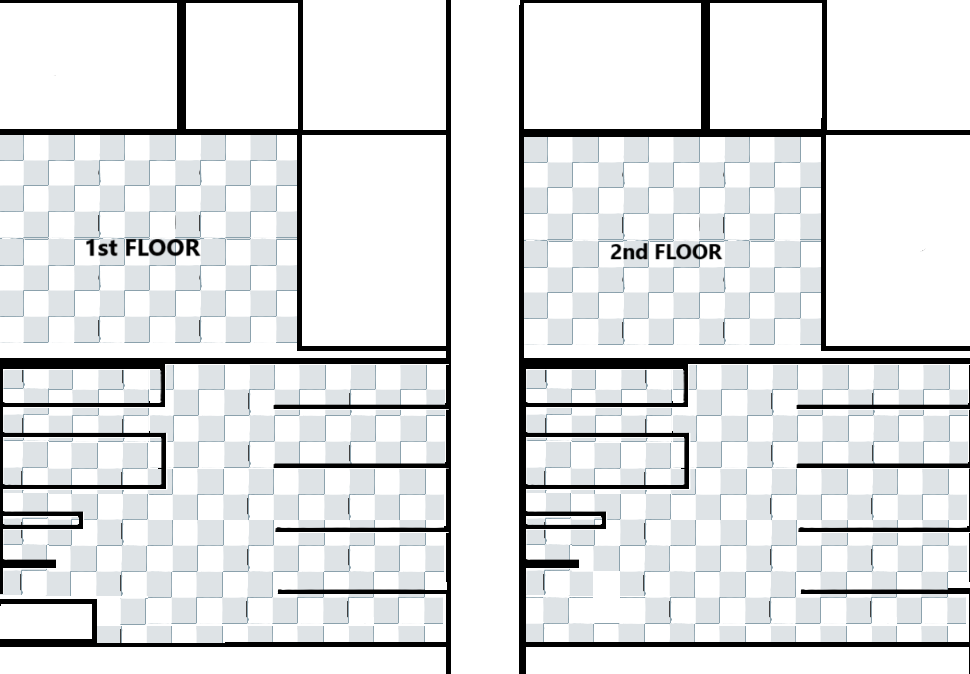
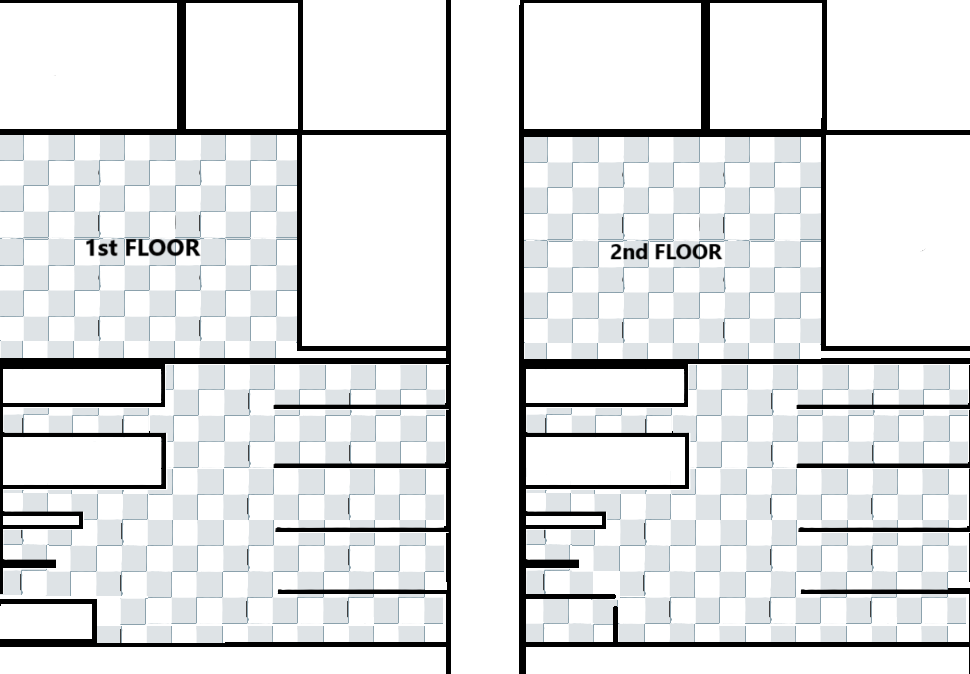
`Updated devicesADMIN.html and devicesUSER.html with various changes to layout and functionality`

diff --git a/public/devicesADMIN.html b/public/devicesADMIN.html
@@ -48,6 +48,7 @@
       padding: 20px;
       position: relative;
       right: 10%;
+      border:5px solid #ff4800;
       background-image: url('./1stFloor.png'); /* Background image */
       background-size: cover; /* Ensure the image covers the entire container */
       background-position: center; /* Center the image */
@@ -230,11 +231,11 @@
 
     .analytics-container {
       display: flex;
-      gap: 20px;
+      gap: 10px;
       margin: 20px 0;
       position: absolute;
       top: 20%; 
-      right: 15px;
+      right: 7px;
     }
 
     .analytics-box {
@@ -369,7 +370,7 @@
 
     <div id="devicesContent" class="content-section device-container" style="display: none;">
       <button id="closeDevicesContent" class="close-btn-devices">✖</button>
-      <input type="text" id="searchBar" placeholder="Search for devices...">
+      <!--<input type="text" id="searchBar" placeholder="Search for devices..."> -->
       <div id="deviceList" class="device-list"></div>
     </div>
 
@@ -426,12 +427,12 @@
         const downloadPdfButton = document.getElementById('downloadPdfButton');
 
         const devicePositions = {
-          'VENUS': { top: '48px', left: '695px', width: '103px', height: '171px'},
-          'MARS': { top: '-48px', left: '434px', width: '132px', height: '78px' },
-          'JUPITER': { top: '-48px', left: '-20px', width: '132px', height: '78px' },
-          'SKYLAB': { top: '48px', left: '242px', width: '102px', height: '171px' },
-          'PLUTO': { top: '-48px', left: '595px', width: '74px', height: '78px'  },
-          'DC Cabin': { top: '450px', left: '-20px', width: '74px', height: '24px'  },
+          'VENUS': { top: '69px', left: '695px', width: '103px', height: '172px'},
+          'MARS': { top: '-25px', left: '434px', width: '132px', height: '78px' },
+          'JUPITER': { top: '-25px', left: '-20px', width: '132px', height: '78px' },
+          'SKYLAB': { top: '69px', left: '242px', width: '102px', height: '172px' },
+          'PLUTO': { top: '-25px', left: '595px', width: '74px', height: '78px'  },
+          'DC Cabin': { top: '475px', left: '-20px', width: '74px', height: '24px'  },
         };
 
         const logoutButton = document.getElementById('logoutButton');
@@ -500,18 +501,18 @@
         });
 
         // Filter devices by search query
-        document.getElementById('searchBar').addEventListener('input', function() {
-          const query = this.value.toLowerCase();
-          const filteredDevices = devices.filter(device => device.toLowerCase().includes(query));
-          deviceList.innerHTML = '';
-          filteredDevices.forEach(device => {
-            const div = document.createElement('div');
-            div.className = 'device';
-            div.innerText = device;
-            div.onclick = () => showDeviceDetails(device);
-            deviceList.appendChild(div);
-          });
-        });
+        //document.getElementById('searchBar').addEventListener('input', function() {
+        //  const query = this.value.toLowerCase();
+        //  const filteredDevices = devices.filter(device => device.toLowerCase().includes(query));
+        //  deviceList.innerHTML = '';
+        //  filteredDevices.forEach(device => {
+        //    const div = document.createElement('div');
+        //    div.className = 'device';
+        //    div.innerText = device;
+        //    div.onclick = () => showDeviceDetails(device);
+        //    deviceList.appendChild(div);
+        //  });
+        //});
         
         
         // Display device details (mocked data)

diff --git a/public/devicesUSER.html b/public/devicesUSER.html
@@ -142,7 +142,7 @@
       <p>You are logged in as <strong>USER</strong></p>
     </div>
     <div class="device-container">
-        <input type="text" id="searchBar" placeholder="Search for devices...">
+        <!--<input type="text" id="searchBar" placeholder="Search for devices...">-->
         <div id="deviceList" class="device-list"></div>
         </div>
     </div>
@@ -176,12 +176,12 @@
         const detailsDiv = document.getElementById('details');
         const detailedReportButton = document.getElementById('detailedReportButton');
         const devicePositions = {
-          'VENUS': { top: '55px', left: '681px', width: '97px', height: '163px'},
-          'MARS': { top: '-28px', left: '432px', width: '125px', height: '67px' },
-          'JUPITER': { top: '-28px', left: '0px', width: '125px', height: '67px' },
-          'SKYLAB': { top: '55px', left: '250px', width: '97px', height: '163px' },
-          'PLUTO': { top: '-29px', left: '585px', width: '72px', height: '68px'  },
-          'DC Cabin': { top: '435px', left: '0px', width: '80px', height: '25px'  },
+          'VENUS': { top: '77px', left: '681px', width: '97px', height: '163px'},
+          'MARS': { top: '-5px', left: '432px', width: '125px', height: '67px' },
+          'JUPITER': { top: '-5px', left: '0px', width: '125px', height: '67px' },
+          'SKYLAB': { top: '77px', left: '250px', width: '97px', height: '163px' },
+          'PLUTO': { top: '-5px', left: '585px', width: '72px', height: '68px'  },
+          'DC Cabin': { top: '460px', left: '0px', width: '80px', height: '25px'  },
         };
 
         const logoutButton = document.getElementById('logoutButton');
@@ -246,18 +246,18 @@
         }
     
         // Filter devices by search query
-        document.getElementById('searchBar').addEventListener('input', function() {
-          const query = this.value.toLowerCase();
-          const filteredDevices = devices.filter(device => device.toLowerCase().includes(query));
-          deviceList.innerHTML = '';
-          filteredDevices.forEach(device => {
-            const div = document.createElement('div');
-            div.className = 'device';
-            div.innerText = device;
-            div.onclick = () => showDeviceDetails(device);
-            deviceList.appendChild(div);
-          });
-        });
+        //document.getElementById('searchBar').addEventListener('input', function() {
+        //  const query = this.value.toLowerCase();
+        //  const filteredDevices = devices.filter(device => device.toLowerCase().includes(query));
+        //  deviceList.innerHTML = '';
+        //  filteredDevices.forEach(device => {
+        //    const div = document.createElement('div');
+        //    div.className = 'device';
+        //    div.innerText = device;
+        //    div.onclick = () => showDeviceDetails(device);
+        //    deviceList.appendChild(div);
+        //  });
+        //});
         
         
         // Display device details (mocked data)
